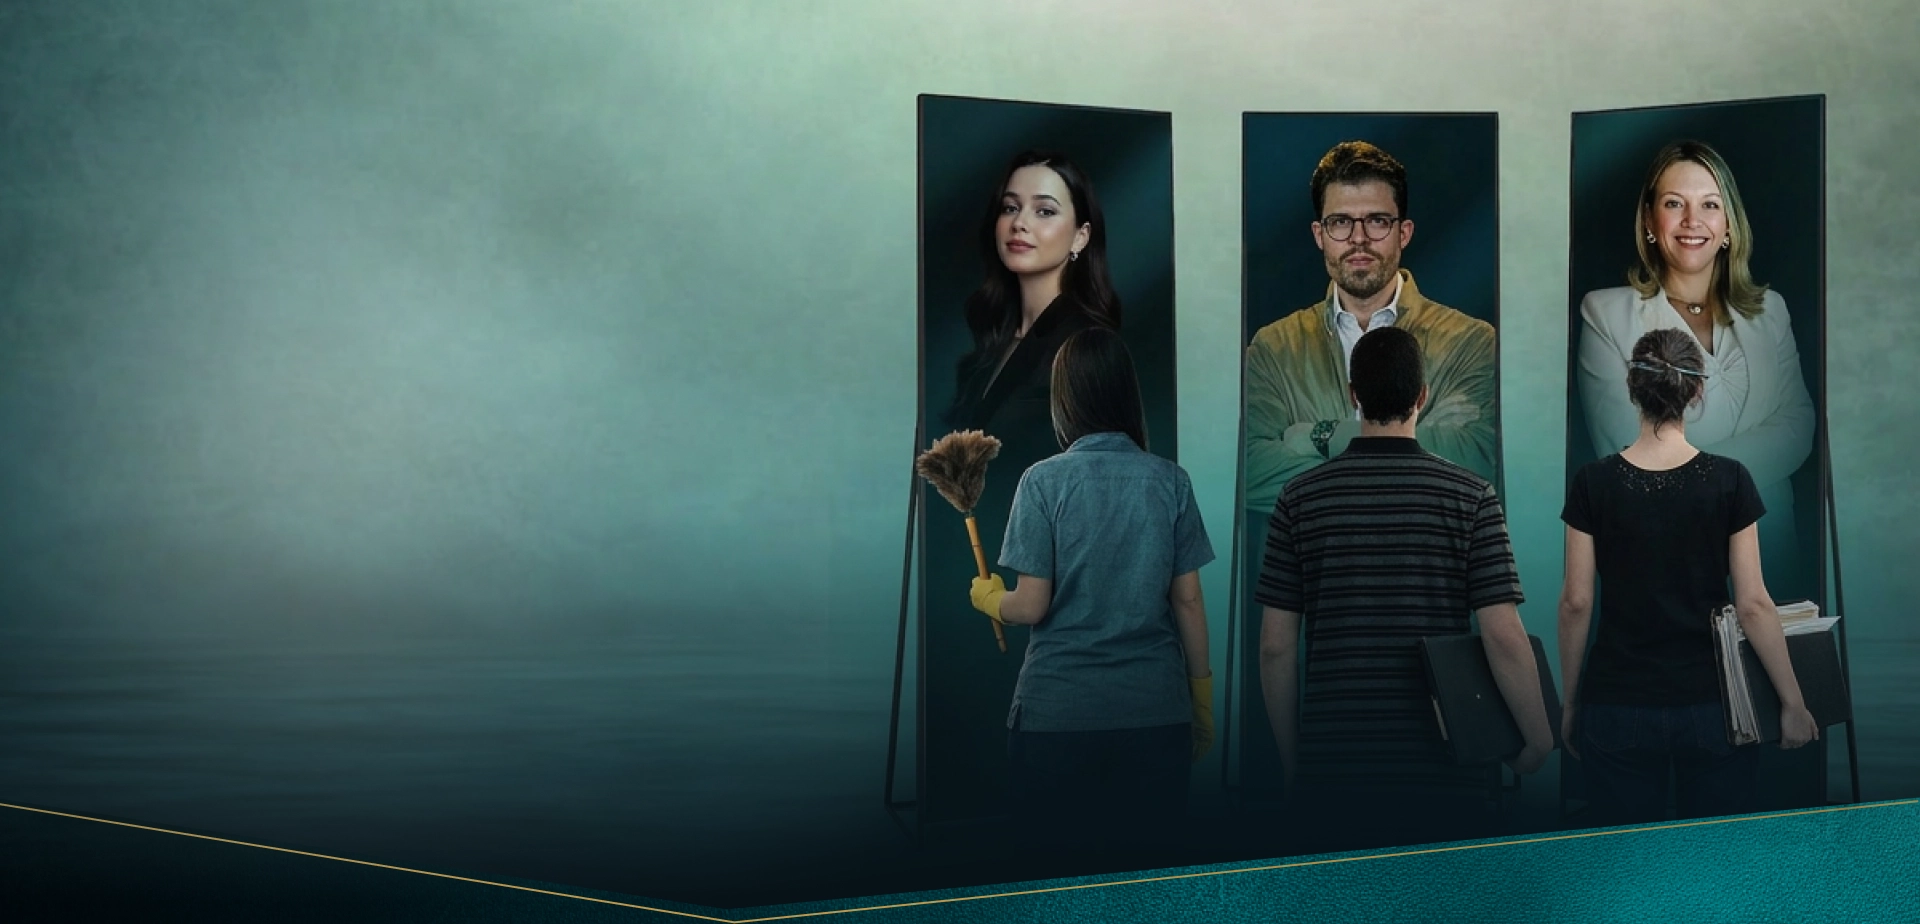
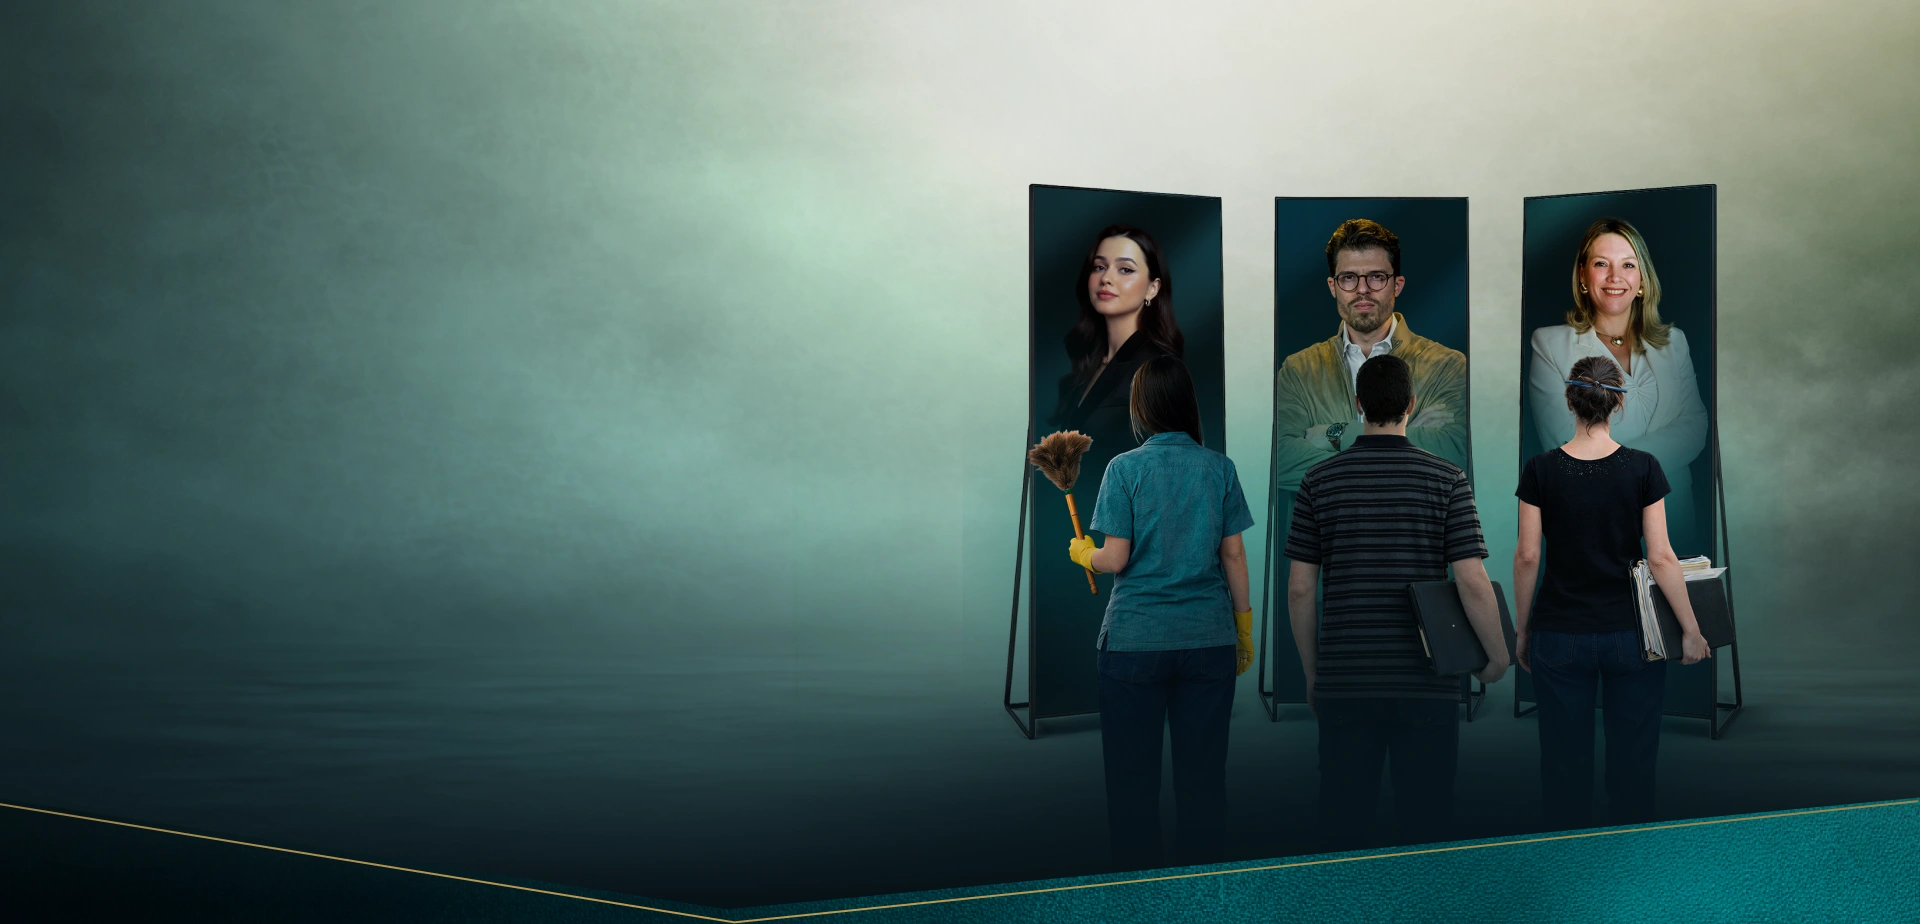
Update layout and content for "O Levante dos Improváveis"; adjust image sizes and styles across sections

diff --git a/app/ldi/[version]/v1/hero-section.tsx b/app/ldi/[version]/v1/hero-section.tsx
@@ -4,85 +4,85 @@ import React from "react";
 import { CalendarDays, Smartphone } from "lucide-react";
 import Image from "next/image";
 import {
-	LeadCaptureForm,
-	LeadCaptureSubmitData,
+  LeadCaptureForm,
+  LeadCaptureSubmitData,
 } from "@/app/components/form/lead-capture-form";
 
 interface ContainerProps {
-	titleRedLine: React.ReactNode | null;
-	redLine: React.ReactNode | null;
-	formName: string;
-	onSubmit: (data: LeadCaptureSubmitData) => void | Promise<void>;
-	submitError?: string | null;
+  titleRedLine: React.ReactNode | null;
+  redLine: React.ReactNode | null;
+  formName: string;
+  onSubmit: (data: LeadCaptureSubmitData) => void | Promise<void>;
+  submitError?: string | null;
 }
 
 export default function HeroSection({
-	titleRedLine,
-	formName,
-	onSubmit,
-	submitError,
+  titleRedLine,
+  formName,
+  onSubmit,
+  submitError,
 }: ContainerProps) {
-	return (
-		<section
-			id="hero"
-			className="relative h-[1041px] md:min-h-[924px] md:h-[924px] flex flex-col justify-start overflow-hidden bg-[#071117] bg-[url('/images/v1/bg-mobile.png')] md:bg-[url('/images/v1/bg.webp')] bg-cover bg-center px-4 pt-5 pb-6 md:p-0"
-		>
-			<div className="w-full max-w-[349px] md:max-w-[527px] flex flex-col items-center md:items-start text-left md:text-left mt-0 md:mt-[45px] md:ml-[210px] mx-auto md:mx-0">
-				<div className="w-full justify-start hidden md:flex">
-					<Image
-						src="/images/logo-o-levante-dos-improvaveis.png"
-						alt="Logo O Levante dos Improváveis"
-						width={379}
-						height={111}
-					/>
-				</div>
+  return (
+    <section
+      id="hero"
+      className="relative h-[1041px] md:min-h-[924px] md:h-[924px] flex flex-col justify-start overflow-hidden bg-[#071117] bg-[url('/images/v1/bg-mobile.png')] md:bg-[url('/images/v1/bg.webp')] bg-cover bg-center px-4 pt-5 pb-6 md:p-0"
+    >
+      <div className="w-full max-w-[349px] md:max-w-[527px] flex flex-col items-center md:items-start text-left md:text-left mt-0 md:mt-[60px] md:ml-[32px] mx-auto md:mx-0">
+        <div className="w-full justify-start hidden md:flex">
+          <Image
+            src="/images/logo-o-levante-dos-improvaveis.png"
+            alt="Logo O Levante dos Improváveis"
+            width={379}
+            height={111}
+          />
+        </div>
 
-				<div className="w-full flex justify-start md:hidden">
-					<Image
-						src="/images/v1/LOGO-OLDI.png"
-						alt="Logo O Levante dos Improváveis"
-						width={379}
-						height={111}
-					/>
-				</div>
+        <div className="w-full flex justify-start md:hidden">
+          <Image
+            src="/images/v1/LOGO-OLDI.png"
+            alt="Logo O Levante dos Improváveis"
+            width={379}
+            height={111}
+          />
+        </div>
 
-				<div
-					className="hidden md:flex flex-wrap items-center justify-start md:justify-start gap-x-[10px] gap-y-[8px] md:gap-[20px] my-8 text-[#F4F0E1] font-mulish text-[12px] md:text-[16px] w-full max-w-[349px] md:w-auto md:max-w-none"
-				>
-					<div className="flex items-center gap-1.5 min-w-0">
-						<CalendarDays
-							size={16}
-							color="#02252C"
-							className="shrink-0 md:w-[18px] md:h-[18px]"
-						/>
-						<span className="leading-[120%]">
-							Segunda-feira, 23/03, às 20h
-						</span>
-					</div>
-					<div className="w-[1px] h-[16px] bg-[#02252C]" />
-					<div className="flex items-center gap-1.5 min-w-0">
-						<Smartphone
-							size={16}
-							color="#02252C"
-							className="shrink-0 md:w-[18px] md:h-[18px]"
-						/>
-						<span className="leading-[120%]">Ao vivo e sem replay</span>
-					</div>
-				</div>
+        <div
+          className="hidden md:flex flex-wrap items-center justify-start md:justify-start gap-x-[10px] gap-y-[8px] md:gap-[20px] my-8 text-[#F4F0E1] font-mulish text-[12px] md:text-[16px] w-full max-w-[349px] md:w-auto md:max-w-none"
+        >
+          <div className="flex items-center gap-1.5 min-w-0">
+            <CalendarDays
+              size={16}
+              color="#02252C"
+              className="shrink-0 md:w-[18px] md:h-[18px]"
+            />
+            <span className="leading-[120%]">
+              Segunda-feira, 06/04 | 20h
+            </span>
+          </div>
+          <div className="w-[1px] h-[16px] bg-[#02252C]" />
+          <div className="flex items-center gap-1.5 min-w-0">
+            <Smartphone
+              size={16}
+              color="#02252C"
+              className="shrink-0 md:w-[18px] md:h-[18px]"
+            />
+            <span className="leading-[120%]">Ao vivo e sem replay</span>
+          </div>
+        </div>
 
-				<div className="text-[#C0964B] md:text-[#0A3740] text-center md:text-left font-bold text-[18px] md:text-2xl font-spectral mt-12 md:mt-0">
-					NÃO É <span className="line-through">TALENTO</span>, NÃO É <span className="line-through">SORTE</span>, <br />
-					NÃO É <span className="line-through">ESFORÇO</span>
-				</div>
+        {/* <div className="text-[#C0964B] md:text-[#0A3740] text-center md:text-left font-bold text-[18px] md:text-2xl font-spectral mt-12 md:mt-0">
+          NÃO É <span className="line-through">TALENTO</span>, NÃO É <span className="line-through">SORTE</span>, <br />
+          NÃO É <span className="line-through">ESFORÇO</span>
+        </div> */}
 
-				<h1
-					className="font-spectral my-3 font-bold uppercase text-[#F4F0E1] text-[20px] leading-[120%] tracking-[-0.02em] w-full max-w-[349px] text-center md:w-[560px] md:max-w-none md:text-2xl md:text-left"
-				>
-					{titleRedLine}
-				</h1>
+        <h1
+          className="font-spectral my-3 font-bold uppercase text-[#F4F0E1] text-[20px] leading-[120%] tracking-[-0.02em] w-full max-w-[349px] text-center md:w-[560px] md:max-w-none md:text-2xl md:text-left"
+        >
+          {titleRedLine}
+        </h1>
 
-				<p
-					className="
+        <p
+          className="
 						text-[#F4F0E1]
 						font-mulish
 						text-[14px]
@@ -94,47 +94,46 @@ export default function HeroSection({
 						md:text-[16px]
 						text-center md:text-left
 					"
-				>
-					Você continua acreditando que o problema é falta de esforço?
-					Junte-se a nós e seja mais um improvável que deu certo.
-				</p>
+        >
+          Este é um evento de 3 dias para você que já tentou de tudo e continua no mesmo lugar – mas agora está pronto para se levantar contra os padrões que travam seu dinheiro, decisões e liberdade.
+        </p>
 
-				<div className="mt-[20px] w-full max-w-[349px] md:max-w-[527px]">
-					<LeadCaptureForm
-						formName={formName}
-						onSubmit={onSubmit}
-						submitError={submitError}
-						submitLabel="Participar gratuitamente"
-						emailInputClassName="w-full h-[52px] md:h-[64px] px-[16px] rounded-[8px] border border-[#BDBCBC] bg-[#FFFFFF1A] backdrop-blur-[20px] placeholder:text-white text-white font-mulish font-medium text-[16px] leading-[145%] outline-none"
-						ddiSelectClassName="h-[52px] md:h-[64px] py-4 pl-[40px] pr-[28px] bg-[#D9CFC31A] rounded-l-[8px] border border-[#BDBCBC] border-r-[0px] text-white font-mulish font-medium text-[16px] leading-[145%] focus:outline-none appearance-none"
-						phoneInputClassName="w-full !h-[52px] md:!h-[64px] px-[16px] py-4 rounded-r-[8px] bg-[#FFFFFF1A] backdrop-blur-[20px] placeholder:text-white text-white font-mulish font-medium text-[16px] leading-[145%] focus:outline-none border border-[#BDBCBC] border-l-[0px]"
-						buttonClassName="mt-[12px] mb-[12px] w-full h-[52px] md:h-[64px] rounded-[8px] font-mulish font-extrabold text-[14px] md:text-[16px] leading-[145%] uppercase text-black transition-all hover:brightness-110 border border-[#FCF3D4] [background:linear-gradient(90deg,_#DFD2A7_0%,_#FCF3D4_100%)] shadow-[0px_6px_18.9px_0px_#F7EDCC85]"
-					/>
-				</div>
-				<div
-					className="md:hidden flex flex-wrap items-center justify-start md:justify-start gap-x-[10px] gap-y-[8px] md:gap-[20px] my-8 text-[#F4F0E1] font-mulish text-[12px] md:text-[16px] w-full max-w-[349px] md:w-auto md:max-w-none"
-				>
-					<div className="flex items-center gap-1.5 min-w-0">
-						<CalendarDays
-							size={16}
-							color="#C0964B"
-							className="shrink-0 md:w-[18px] md:h-[18px]"
-						/>
-						<span className="leading-[120%]">
-							Segunda-feira, 23/03, às 20h
-						</span>
-					</div>
-					<div className="w-[1px] h-[16px] bg-[#F4F0E1]" />
-					<div className="flex items-center gap-1.5 min-w-0">
-						<Smartphone
-							size={16}
-							color="#C0964B"
-							className="shrink-0 md:w-[18px] md:h-[18px]"
-						/>
-						<span className="leading-[120%]">Ao vivo e sem replay</span>
-					</div>
-				</div>
-			</div>
-		</section>
-	);
+        <div className="mt-[20px] w-full max-w-[349px] md:max-w-[527px]">
+          <LeadCaptureForm
+            formName={formName}
+            onSubmit={onSubmit}
+            submitError={submitError}
+            submitLabel="Participar gratuitamente"
+            emailInputClassName="w-full h-[52px] md:h-[64px] px-[16px] rounded-[8px] border border-[#BDBCBC] bg-[#FFFFFF1A] backdrop-blur-[20px] placeholder:text-white text-white font-mulish font-medium text-[16px] leading-[145%] outline-none"
+            ddiSelectClassName="h-[52px] md:h-[64px] py-4 pl-[40px] pr-[28px] bg-[#D9CFC31A] rounded-l-[8px] border border-[#BDBCBC] border-r-[0px] text-white font-mulish font-medium text-[16px] leading-[145%] focus:outline-none appearance-none"
+            phoneInputClassName="w-full !h-[52px] md:!h-[64px] px-[16px] py-4 rounded-r-[8px] bg-[#FFFFFF1A] backdrop-blur-[20px] placeholder:text-white text-white font-mulish font-medium text-[16px] leading-[145%] focus:outline-none border border-[#BDBCBC] border-l-[0px]"
+            buttonClassName="mt-[12px] mb-[12px] w-full h-[52px] md:h-[64px] rounded-[8px] font-mulish font-extrabold text-[14px] md:text-[16px] leading-[145%] uppercase text-black transition-all hover:brightness-110 border border-[#FCF3D4] [background:linear-gradient(90deg,_#DFD2A7_0%,_#FCF3D4_100%)] shadow-[0px_6px_18.9px_0px_#F7EDCC85]"
+          />
+        </div>
+        <div
+          className="md:hidden flex flex-wrap items-center justify-start md:justify-start gap-x-[10px] gap-y-[8px] md:gap-[20px] my-8 text-[#F4F0E1] font-mulish text-[12px] md:text-[16px] w-full max-w-[349px] md:w-auto md:max-w-none"
+        >
+          <div className="flex items-center gap-1.5 min-w-0">
+            <CalendarDays
+              size={16}
+              color="#C0964B"
+              className="shrink-0 md:w-[18px] md:h-[18px]"
+            />
+            <span className="leading-[120%]">
+              Segunda-feira, 23/03, às 20h
+            </span>
+          </div>
+          <div className="w-[1px] h-[16px] bg-[#F4F0E1]" />
+          <div className="flex items-center gap-1.5 min-w-0">
+            <Smartphone
+              size={16}
+              color="#C0964B"
+              className="shrink-0 md:w-[18px] md:h-[18px]"
+            />
+            <span className="leading-[120%]">Ao vivo e sem replay</span>
+          </div>
+        </div>
+      </div>
+    </section>
+  );
 }

diff --git a/app/ldi/[version]/v1/third-section.tsx b/app/ldi/[version]/v1/third-section.tsx
@@ -96,8 +96,8 @@ export default function ThirdSection() {
         <p className="text-[#C0964B] font-spectral text-[20px] md:text-[35px] text-center leading-[125%] font-bold max-w-[667px] w-full mx-auto mt-10 md:mt-0">
           Esse encontro é para quem:
         </p>
-        <div className="flex flex-col md:flex-row items-center justify-center md:gap-1 gap-8 md:mt-16 mt-10">
-          <div className="flex md:flex-col flex-row items-start justify-start md:gap-1 gap-4">
+        <div className="flex flex-col md:flex-row items-center md:items-start justify-between md:gap-4 gap-8 md:mt-16 mt-10">
+          <div className="flex md:flex-col flex-row items-start justify-start md:gap-1 gap-4 w-full max-w-[250px]">
             <Image
               src="/images/v1/icon-check.png"
               alt="Risk"
@@ -108,7 +108,7 @@ export default function ThirdSection() {
               Já investiu em cursos, mentorias ou terapias e ainda sente a vida travada
             </p>
           </div>
-          <div className="flex md:flex-col flex-row items-start justify-start md:gap-1 gap-4">
+          <div className="flex md:flex-col flex-row items-start justify-start md:gap-1 gap-4 w-full max-w-[250px]">
             <Image
               src="/images/v1/icon-check.png"
               alt="Risk"
@@ -119,7 +119,7 @@ export default function ThirdSection() {
               Sabe que tem capacidade de sobra, mas o resultado financeiro não acompanha
             </p>
           </div>
-          <div className="flex md:flex-col flex-row items-start justify-start md:gap-1 gap-4">
+          <div className="flex md:flex-col flex-row items-start justify-start md:gap-1 gap-4 w-full max-w-[250px]">
             <Image
               src="/images/v1/icon-check.png"
               alt="Risk"
@@ -130,7 +130,7 @@ export default function ThirdSection() {
               Quer entender o que realmente está te segurando e corrigir isso
             </p>
           </div>
-          <div className="flex md:flex-col flex-row items-start justify-start md:gap-1 gap-4">
+          <div className="flex md:flex-col flex-row items-start justify-start md:gap-1 gap-4 w-full max-w-[270px]">
             <Image
               src="/images/v1/icon-check.png"
               alt="Risk"

diff --git a/app/ldi/[version]/v1/five-section.tsx b/app/ldi/[version]/v1/five-section.tsx
@@ -32,9 +32,9 @@ export default function FiveSection() {
 				<Image
 					src="/images/v1/LOGO-OLDI.png"
 					alt="Risk"
-					width={548}
-					height={155}
-          className="w-full md:max-w-[548px] max-w-[320px] mx-auto"
+					width={300}
+					height={85}
+          className="w-full md:max-w-[350px] max-w-[250px] mx-auto"
 				/>
 				<p className="text-[#D3CAC0] font-spectral md:block hidden text-[20px] md:text-[25px] text-center leading-[125%] font-extrabold w-full max-w-[667px] mx-auto my-10">
 					Não é sobre as pessoas mais talentosas. <br /> Não é sobre as mais preparadas.
@@ -60,7 +60,7 @@ export default function FiveSection() {
 					ACESSAR O LEVANTE DOS IMPROVÁVEIS
 				</button>
 				<div className="flex md:flex-row flex-col-reverse items-center justify-between gap-10 w-full md:mt-28 mt-12 md:gap-2">
-					<div className="text-white text-[14px] text-center md:text-left leading-[135%] font-mulish">Copyright © O Resgate Dos Otimistas. <br /> Todos os direitos reservados.</div>
+					<div className="text-white text-[14px] text-center md:text-left leading-[135%] font-mulish">Copyright © O Levante dos Improváveis. <br /> Todos os direitos reservados.</div>
 					<Image
 						src="/images/logo.png"
 						alt="Risk"

diff --git a/app/ldi/[version]/v1/SecondSection.tsx b/app/ldi/[version]/v1/SecondSection.tsx
@@ -24,14 +24,14 @@ export default function SecondSection() {
 			`}
 		>
 			<div className="w-full max-w-[349px] md:max-w-[990px] mx-auto text-center py-10 font-mulish text-[16px] md:text-[18px] leading-[125%] text-[#F4F0E1] font-bold">
-				<p className="md:block hidden">
+				<p className="md:block hidden mb-4 md:mb-8">
 					Você continua acreditando que o problema é falta de esforço? <br />
 					Junte-se a nós e seja mais um improvável que deu certo.
 				</p>
-				<p className="md:block hidden font-spectral font-bold uppercase my-4 md:my-8 leading-[120%] tracking-[-0.02em] text-[#C0964B] text-[20px] md:text-[40px]">
+				{/* <p className="md:block hidden font-spectral font-bold uppercase my-4 md:my-8 leading-[120%] tracking-[-0.02em] text-[#C0964B] text-[20px] md:text-[40px]">
 					NÃO É <span className="line-through">TALENTO</span>, NÃO É <span className="line-through">SORTE</span>, <br />
 					NÃO É <span className="line-through">ESFORÇO</span>
-				</p>
+				</p> */}
 				<div className="md:block hidden md:text-[40px] text-[20px] font-spectral font-bold text-[#C0964B] leading-[120%]">
 					O QUE REALMENTE TRAVA SUA VIDA DEPOIS DOS 30 SÃO AS RELAÇÕES QUE VOCÊ AINDA NÃO SABE COMO CORRIGIR.
 				</div>

diff --git a/app/layout.tsx b/app/layout.tsx
@@ -44,9 +44,9 @@ const mulish = Mulish({
 })
 
 export const metadata: Metadata = {
-  title: "O Resgate dos Otimistas - Diagnóstico de Dependência Emocional",
+  title: "O Levante dos Improváveis",
   description:
-    "Faça seu diagnóstico de dependência emocional gratuito e descubra como aumentar seu nível de permissão.",
+    "Não é sobre as pessoas mais talentosas. Não é sobre as mais preparadas. É um processo prático para destravar sua vida financeira depois dos 30 e corrigir relacionamentos que impedem sua permissão de ir mais longe.",
   icons: {
     icon: '/images/cropped-Alianca-Divergente-Logotipo-Favicon-32x32.png',
     shortcut: '/images/cropped-Alianca-Divergente-Logotipo-Favicon-32x32.png',

diff --git a/app/ldi/[version]/v1/headline.tsx b/app/ldi/[version]/v1/headline.tsx
@@ -51,7 +51,7 @@ export const Headline: IHeadline[] = [
     title: (
       <>
         <span className="text-[#C0964B] md:text-[#0A3740]">Livre-se dos padrões que travam sua vida financeira,</span> mesmo com todo seu esforço, capacidade e dedicação.
-        Ou ignore este movimento e repita o mesmo erro por mais 10 anos…
+        <p className="mt-4">Ou ignore este movimento e repita o mesmo erro por mais 10 anos…</p>
       </>
     ),
 
